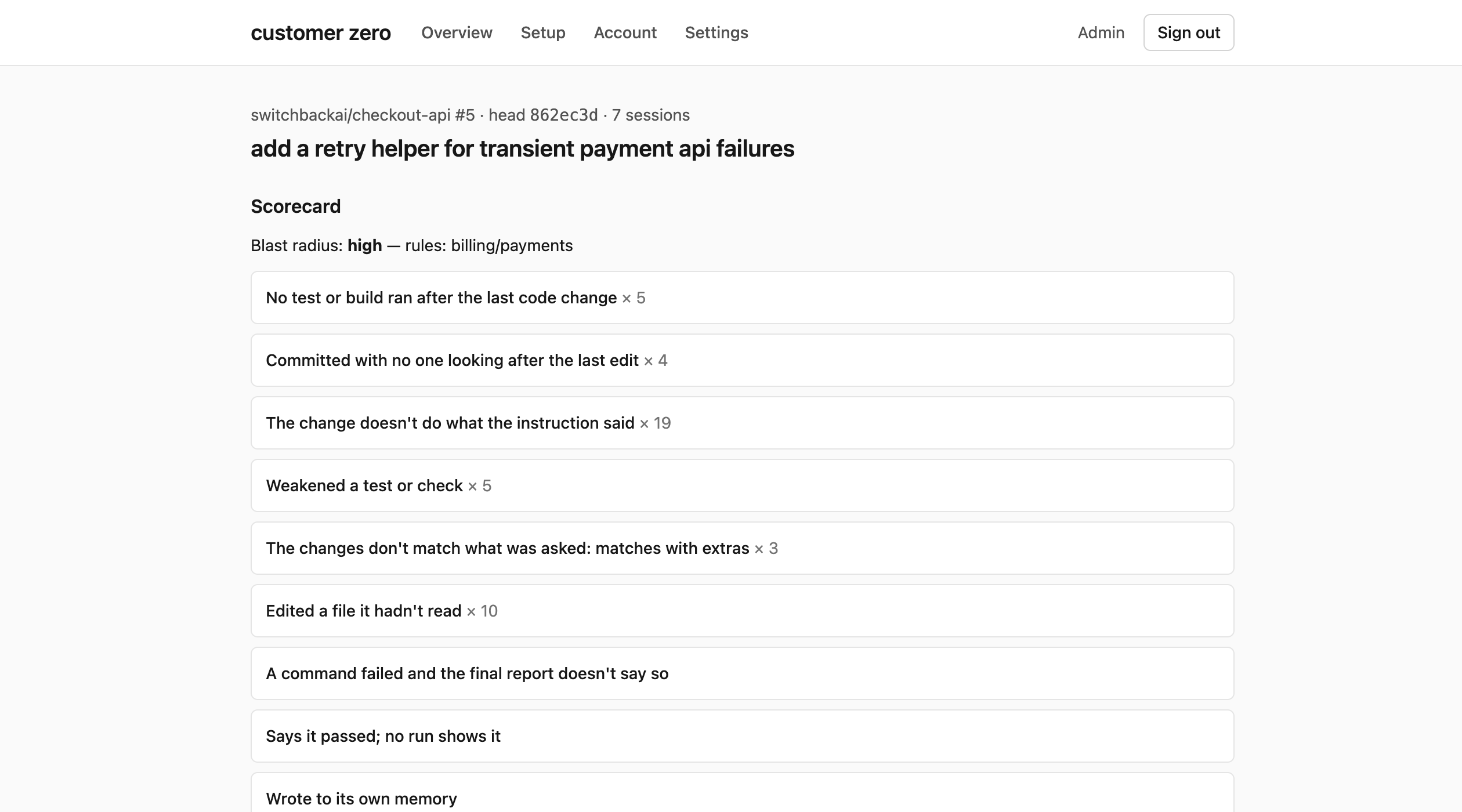
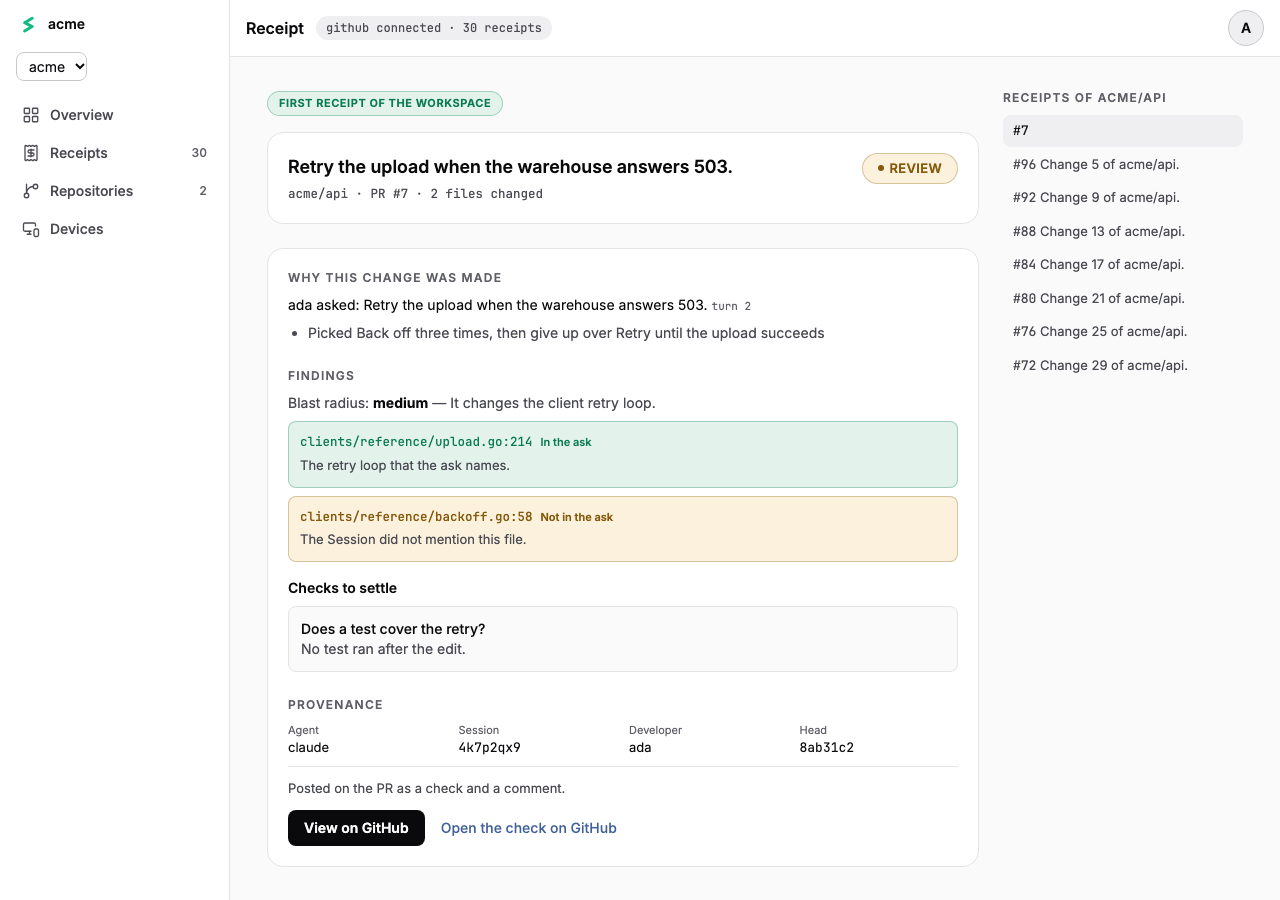
switchbak 0.1.38

diff --git a/src/content/docs/use-switchbak/members.md b/src/content/docs/use-switchbak/members.md
@@ -1,14 +1,26 @@
 ---
 title: Members of your organization
-description: See the members of your organization, and remove a member.
+description: See the members of your organization, remove a member, and invite a member.
 sidebar:
   order: 5
 ---
 
 An admin of your organization sees its members and can remove a member. The person who made the organization is its admin.
 
-1. Open `https://sep.switchbak.dev/v1/web/members`
-2. Press Sign in with GitHub. The members page lists the newest joins first.
-3. Press Remove next to a member. Remove signs the member out at once.
+1. Sign in at [app.switchbak.dev](https://app.switchbak.dev)
+2. Open the menu of your avatar, choose Settings, and open the Members tab. The tab shows the role and the client of each member
+3. Press Remove next to a member, and confirm. Remove signs the member out at once
+
+![The Members tab of Settings: each member with a role, a client and Remove](members/members.png)
 
 GitHub access does not add a removed member again. The login page of that person says "An admin removed you from <organization>".
+
+## Invite a member
+
+The Invites tab of Settings makes invite links. A person who opens a link joins as a member, until the link expires, runs out of uses or you revoke it.
+
+- Invite links: set the days and the uses, and press Create link. Press Revoke to end a link
+- Auto-join: a member of the GitHub organization that installed Switchbak joins with no link
+- Auto-approve an email domain: a link set to Approved domains only admits only a verified email of that domain
+
+![The Invites tab of Settings: invite links, auto-join and an approved email domain](members/invites.png)

diff --git a/src/content/docs/set-up/connect-github.md b/src/content/docs/set-up/connect-github.md
@@ -34,6 +34,20 @@ When your organization is already connected, connect prints the connected accoun
 
 A member of a GitHub organization who is not an owner sees "Waiting for an owner to approve". GitHub sent the install to an owner. Ask an owner to approve it, and then run `switchbak connect` again.
 
+## Connect from the web app
+
+An admin can also connect GitHub on [app.switchbak.dev](https://app.switchbak.dev):
+
+1. Open the Overview. In the Get started checklist, press Install GitHub App
+2. In Connect GitHub, press Install next to your organization. If the organization is not in the list, type its name in Organization on GitHub
+3. On GitHub, select the repositories and press Install & Authorize
+
+![The Connect GitHub step on the Overview: the permissions of the App, the organizations with Install, and the field Organization on GitHub](connect-github/step.png)
+
+Settings, Integrations then shows the GitHub App as installed, with its repositories. Press Manage on GitHub to add a repository.
+
+![The Integrations tab of Settings: the GitHub App is installed on acme with two repositories](connect-github/integrations.png)
+
 The Receipt check and the Receipt comment appear on the next push to a pull request in a chosen repository.
 
 When the GitHub account is already connected to the Switchbak organization of your team, connect offers to join that organization.

diff --git a/src/content/docs/set-up/log-in.md b/src/content/docs/set-up/log-in.md
@@ -63,14 +63,14 @@ the login was refused: No Switchbak workspace has <email>. Create your workspace
 
 A login with Google does not join the workspace of your team through GitHub. To join through your GitHub organization, log in with GitHub, or [link GitHub](#link-your-accounts) to your account.
 
-When your Google email is the email of an account that signs in with GitHub, the page says "An account with this email signs in with GitHub". Run `switchbak login` again and choose Continue with GitHub. To sign in with Google later, link it on the Account page.
+When your Google email is the email of an account that signs in with GitHub, the page says "An account with this email signs in with GitHub". Run `switchbak login` again and choose Continue with GitHub. To sign in with Google later, link it on the Devices page.
 
 ## Link your accounts
 
 You can sign in to one account with both GitHub and Google. Link the second one in the web app:
 
 1. Sign in at [app.switchbak.dev](https://app.switchbak.dev)
-2. Open the Account tab. Linked accounts lists GitHub and Google
+2. Open Devices in the sidebar. Linked accounts lists GitHub and Google
 3. Press Link GitHub account or Link Google account, and sign in with it
 
 The page then says "Your Google account is linked. You can sign in with it."

diff --git a/src/content/docs/get-started/quickstart.md b/src/content/docs/get-started/quickstart.md
@@ -62,9 +62,9 @@ Check the installation:
 switchbak status
 ```
 
-The first line is `ready     installed ✓  authenticated ✓  connected ✓`. The Setup page of [app.switchbak.dev](https://app.switchbak.dev) shows the same steps.
+The first line is `ready     installed ✓  authenticated ✓  connected ✓`. The Get started checklist on the Overview of [app.switchbak.dev](https://app.switchbak.dev) shows the same steps.
 
-![The setup checklist on app.switchbak.dev, with each step done](quickstart/setup.png)
+![The Get started checklist on the Overview of app.switchbak.dev: the CLI and GitHub are done, and Invite your team is optional](quickstart/setup.png)
 
 ## 4. Make a change with your agent
 
@@ -99,7 +99,7 @@ The comment quotes the intent of the change. Its table shows the false claims, t
 
 Press "Open in Switchbak" for the full Receipt on app.switchbak.dev. Only a member of your workspace can open it.
 
-![The Receipt page on app.switchbak.dev](quickstart/receipt.png)
+![The Receipt page on app.switchbak.dev: the intent, the findings, the checks to settle and the provenance of the session](quickstart/receipt.png)
 
 See [The Receipt on a pull request](../use-switchbak/the-receipt.md).
 

diff --git a/src/content/docs/use-switchbak/the-receipt.md b/src/content/docs/use-switchbak/the-receipt.md
@@ -62,3 +62,5 @@ Switchbak" and the check's Details open the Receipt on `app.switchbak.dev`.
 Only a member of your organization can open it. A person who is not signed in
 signs in first and then sees the Receipt. A person who is not a member sees no
 Receipt.
+
+![The Receipt page on app.switchbak.dev: the intent, the findings, the checks to settle and the provenance of the session](../get-started/quickstart/receipt.png)
